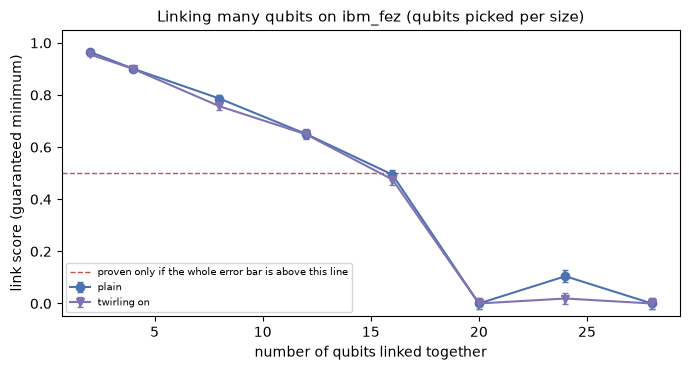
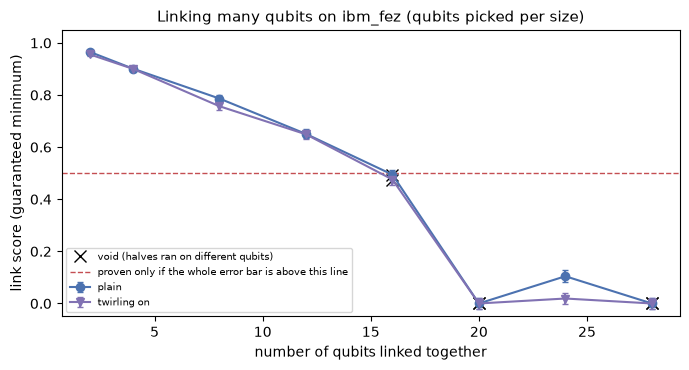
Lesson 7: review follow-ups (void run-1 sizes in text and chart, sweep verdict waits for qubit check, wording)

Changed region(s): [[0.0914, 0.6541, 0.3962, 0.7135], [0.5486, 0.4459, 0.5791, 0.5054], [0.4877, 0.6838, 0.5181, 0.7135]]

diff --git a/lessons/07_linking_many/parity_sweep.py b/lessons/07_linking_many/parity_sweep.py
@@ -81,7 +81,7 @@ def quality(counts: list[dict], sizes) -> list[dict]:
         # is too generous: in simulation it called an unlinked state "proven" about 13% of the
         # time. Instead: take 2 wobbles off the all-agree share, and take 2 (generous) wobbles
         # off the wiggle size, using a wobble that ignores how the angles share out the noise.
-        # In simulation this falsely proves an unlinked state at most about 2% of the time.
+        # It falsely proved an unlinked state about 2% of the time in our worst-case simulations.
         sd_a = math.sqrt(a * (1 - a) / shots)
         sd_c = math.sqrt(sum((1 - p * p) / shots for p in parities)) / len(phis)
         lower = (a - 2 * sd_a) / 2 + wiggle - 2 * sd_c
@@ -93,9 +93,17 @@ def quality(counts: list[dict], sizes) -> list[dict]:
 def report(res: list[dict], where: str) -> None:
     print(f"Phase sweep on {where}:")
     for r in res:
+        if not r.get("valid", True):
+            print(f"   {r['n']:2d} qubits: NOT VALID (its circuits read different physical qubits)")
+            continue
         print(f"   {r['n']:2d} qubits: all agree {r['agree']:.1%}, n-times wiggle size {r['wiggle']:.2f}"
               f"  ->  link quality {r['quality']:.1%} (cautious lower bound {r['lower']:.1%})"
-              f"  ({'proven linked' if r['lower'] > 0.5 else 'not proven'})")
+              f"  ({'proven linked' if proven(r) else 'not proven'})")
+
+
+def proven(r: dict) -> bool:
+    """The proof rule: valid (one set of qubits) and cautious lower bound above 50%."""
+    return r.get("valid", True) and r["lower"] > 0.5
 
 
 def save_chart(res: list[dict], where: str, path: Path) -> None:
@@ -110,7 +118,7 @@ def save_chart(res: list[dict], where: str, path: Path) -> None:
         comp = sum(p * cmath.exp(-1j * r["n"] * phi) for p, phi in zip(r["parities"], r["phis"])) / len(r["phis"])
         ax.plot(fine, [2 * abs(comp) * math.cos(r["n"] * math.radians(d) + cmath.phase(comp)) for d in fine],
                 color="#c44e52", linewidth=1, label=f"{r['n']}-times wiggle")
-        verdict = "proven" if r["lower"] > 0.5 else "not proven"
+        verdict = "proven" if proven(r) else ("NOT VALID" if not r.get("valid", True) else "not proven")
         ax.set_title(f"{r['n']} qubits: link quality {r['quality']:.0%} "
                      f"(lower bound {r['lower']:.0%}, {verdict})", fontsize=9)
         ax.set_xlabel("turn angle (degrees)")
@@ -197,15 +205,17 @@ def fetch() -> int:
     sizes = info.get("sizes", SIZES)
     counts = [r.data.c.get_counts() for r in job.result()]
     res = quality(counts, sizes)
-    report(res, info["backend"])
-    # Every circuit for one size must have read the same physical qubits, or the parts don't fit.
+    # Every circuit for one size must have read the same physical qubits, or the parts don't
+    # fit together. Check that first, so the verdict depends on it.
     ran = [item.circuit for item in job.inputs["quantum_program"].items]
     i = 0
-    for n in sizes:
-        block = ran[i:i + 1 + len(angles(n))]
+    for r in res:
+        block = ran[i:i + 1 + len(angles(r["n"]))]
         i += len(block)
-        same = len({frozenset(L.measured_qubits(c)) for c in block}) == 1
-        print(f"   {n} qubits: all {len(block)} circuits read the same physical qubits: {'yes' if same else 'NO - not valid'}")
+        r["valid"] = len({frozenset(L.measured_qubits(c)) for c in block}) == 1
+        print(f"   {r['n']} qubits: all {len(block)} circuits read the same physical qubits: "
+              f"{'yes' if r['valid'] else 'NO'}")
+    report(res, info["backend"])
     # For comparison: ghz.py's cautious quick score from the same data (angle 0 = plain sideways).
     for r in res:
         a, e0 = r["agree"], r["parities"][0]

diff --git a/lessons/07_linking_many/ghz.py b/lessons/07_linking_many/ghz.py
@@ -129,7 +129,7 @@ def analyze(counts: list[dict], sizes, label: str, invalid=frozenset()):
     return out, wob
 
 
-def save_chart(series: dict, title: str, path: Path) -> None:
+def save_chart(series: dict, title: str, path: Path, invalid=frozenset()) -> None:
     try:
         import matplotlib.pyplot as plt
     except ImportError:
@@ -139,9 +139,13 @@ def save_chart(series: dict, title: str, path: Path) -> None:
               "plain": ("#4c72b0", "-", "o"), "twirling on": ("#8172b3", "-", "v")}
     for name, (sizes, ys, wobs) in series.items():
         color, ls, marker = styles.get(name, ("#dd8452", "-", "o"))
-        ys = [max(y, 0.0) for y in ys]  # below 0 just means "proves nothing"; show as 0
+        ys = [max(y, 0.0) for y in ys]  # below 0 just means "proves nothing"; drawn at 0
         ax.errorbar(sizes, ys, yerr=[2 * w for w in wobs], color=color, linestyle=ls,
                     marker=marker, capsize=2, label=name)
+        void = [(n, y) for n, y in zip(sizes, ys) if n in invalid]
+        if void:  # sizes whose straight and sideways halves ran on different qubits
+            ax.plot([n for n, _ in void], [y for _, y in void], "x", color="black", markersize=9,
+                    label="void (halves ran on different qubits)" if name == list(series)[0] else None)
     ax.axhline(0.5, color="#c44e52", linewidth=1, linestyle="--",
                label="proven only if the whole error bar is above this line")
     ax.set_xlabel("number of qubits linked together")
@@ -308,8 +312,9 @@ def fetch_jobs() -> int:
             "hardware_chain_results.png" if info.get("chain") else "hardware_results.png")
     if info.get("avoid"):
         how += f", avoiding qubit(s) {info['avoid']}"
+    void = set().union(*(v[2] for v in results.values()))
     save_chart({k: (sizes, v[0], v[1]) for k, v in results.items()},
-               f"Linking many qubits on {info['backend']} ({how})", HERE / name)
+               f"Linking many qubits on {info['backend']} ({how})", HERE / name, void)
 
     def proven_count(v):
         scores, wobs, invalid = v
@@ -319,7 +324,7 @@ def fetch_jobs() -> int:
     ok = (is_proven(scores[0], wobs[0]) and sizes[0] not in invalid  # smallest group proven
           and scores[-1] < scores[0])                                 # bigger groups are harder
     print(f"  need: the smallest group ({sizes[0]} qubits) proven linked (same rule as above), "
-          "and the score falls as the group grows")
+          "and the largest group scores lower than the smallest")
     print("CHECK PASSED" if ok else "CHECK FAILED")
     return 0 if ok else 1
 

diff --git a/lessons/07_linking_many/README.md b/lessons/07_linking_many/README.md
@@ -17,13 +17,14 @@ lesson 1, pre-agreed ordinary coins can fake that, so we also look sideways. Wit
 qubits we have to be careful how we combine the two looks:
 
 - **Quick test (`ghz.py`):** straight + sideways, combined with a standard formula called an
-  *entanglement witness*. It gives a **guaranteed minimum**. Above 50% proves the whole
-  group is linked as one, but it's cautious, so a real link can fall just short.
+  *entanglement witness*. It gives a **guaranteed minimum**. Above 50% by more than two
+  chance wobbles proves the whole group is linked as one, but it's cautious, so a real link
+  can fall just short.
 - **Thorough test (`parity_sweep.py`):** turn every qubit by the same small angle, look
   sideways, and repeat at many angles. A linked group of 16 makes the sideways count wiggle
   **exactly 16 times** per full turn. Only the whole group's all-0s/all-1s link makes that
   fast a wiggle. Groups that aren't fully linked can still make a faint one, so we combine
-  its size with the all-agree share. Above 50% proves the whole-group link.
+  its size with the all-agree share. Proven when its cautious lower bound is above 50%.
 
 New words:
 
@@ -59,12 +60,13 @@ pair, and every qubit's reading.
 
 [`parity_sweep.py`](parity_sweep.py) is the thorough test. Its simulator check includes a
 noisy 8-qubit state whose true link quality can be computed exactly (83.4%). The sweep
-measured 83.1% ± 0.2%.
+measured 83.1%, with a cautious lower bound of 82.6%.
 
 ## What happened when we ran it
 
 All runs on 2026-11-26, 4000 shots per circuit unless noted. Scores are the quick-test
-minimum; "proven" means above 50% by more than 2 chance wobbles.
+minimum; "proven" means above 50% by more than 2 chance wobbles (run 5 uses its own cautious
+lower bound; see below).
 
 ### 1. Let the compiler pick qubits for each size (ibm_fez)
 
@@ -80,8 +82,10 @@ minimum; "proven" means above 50% by more than 2 chance wobbles.
 **Caught in ChatGPT's review:** in this run the compiler placed each straight and sideways
 half separately. For 16, 20 and 28 qubits, the two halves landed on **different physical
 qubits**, so those three scores combine measurements of two different groups and mean nothing.
-That's the likely reason for the odd collapse at 20 (and 24 doing better than 20). We checked
-the saved jobs: at 12 qubits both halves read the same qubits, so the 12-qubit proof stands.
+We checked the saved jobs: at 12 qubits both halves read the same qubits (and avoided qubit 90,
+the bad qubit we find in run 3), so the 12-qubit proof stands. Both 20-qubit halves also used
+qubit 90, while 24 avoided it. That probably explains why 24 beat 20. Either way, 16, 20 and
+28 prove nothing.
 The script now pins each sideways half to its straight half's qubits, and when it reads results
 back it checks the job and marks any mismatched size **NOT VALID**. The chart shows the scores
 as measured; treat 16, 20 and 28 as void.
@@ -119,11 +123,12 @@ bad between calibrations.
 
 ![Run 4](hardware_chain_avoid_results.png)
 
-Back to the run-1 level: **12 proven, 16 just short**, now with nested groups.
+Back to the run-1 level at 12 qubits: **12 proven, and 16 just short**, now with nested groups.
 
 A repeat on **ibm_kingston** (twirling on, sizes 16–24) put 16 qubits at 51.6% ± 1.0%: above
-50%, but not by two wobbles, so **nothing was proven** and that run fails its check. Runs 1, 4
-and this repeat all put 16 qubits right on the edge of what the quick test can prove.
+50%, but not by two wobbles, so **nothing was proven** and that run fails its check. Run 4 and
+this repeat both put 16 qubits right on the edge of what the quick test can prove (run 1's
+16-qubit score is void).
 
 ![Repeat on ibm_kingston](hardware_chain_repeat_results.png)
 
@@ -144,16 +149,16 @@ The dots follow the red 16-times wiggle closely. **All 16 qubits were linked as 
 pick whichever phase matches best, so random noise always produces some wiggle. Our first
 rule ("estimate minus 2 wobbles above 50%") didn't allow for that. In 20,000 simulated runs
 of an *unlinked* state sitting exactly on the 50% line, it said "proven" about 13% of the time.
-The script now uses a cautious lower bound: 2 wobbles off the all-agree share, plus 2 generous
-wobbles off the wiggle size. On the same simulated unlinked states, that falsely proves at
-most about 2% of the time, and it still proves our measured 16-qubit point every time.
+The script now uses a cautious lower bound: 2 wobbles off the all-agree share, and 2 generous
+wobbles off the wiggle size. In the hardest case we simulated (an unlinked state exactly on the 50% line), that falsely
+proves about 2% of the time, and under 1% for the other unlinked states we tried, and it still proves our measured 16-qubit point every time.
 On the real data the bound is 53.4%, so **the 16-qubit result survives the stricter test.**
 
 The sweep's first angle (0°) is exactly the quick test's sideways look, so the same data also
 gives the cautious quick score: **39.9% ± 1.4% for 16 qubits**, nowhere near proving it. On
 identical data, the quick test missed a link the thorough test proved. That suggests fez's
-16-qubit groups in runs 1 and 4 (just under 50% on the quick test) may well have been linked
-too, just not provably that way.
+16-qubit group in run 4 (just under 50% on the quick test) may well have been linked too, just
+not provably that way.
 
 ## What that means
 
@@ -205,7 +210,7 @@ noisy 8-qubit state, where the exact answer can be computed directly, the estima
 
 On hardware, `ghz.py --job` passes only if the smallest group tried is proven linked by the same
 rule used everywhere else (above 50% by more than 2 wobbles, on the same physical qubits), and
-the score falls as the group grows. The chart draws each score with a ±2-wobble error bar; a
+the largest group scores lower than the smallest. The chart draws each score with a ±2-wobble error bar; a
 size counts as proven only if its whole bar is above the 50% line.
 
 ## Run it on a real quantum computer yourself
